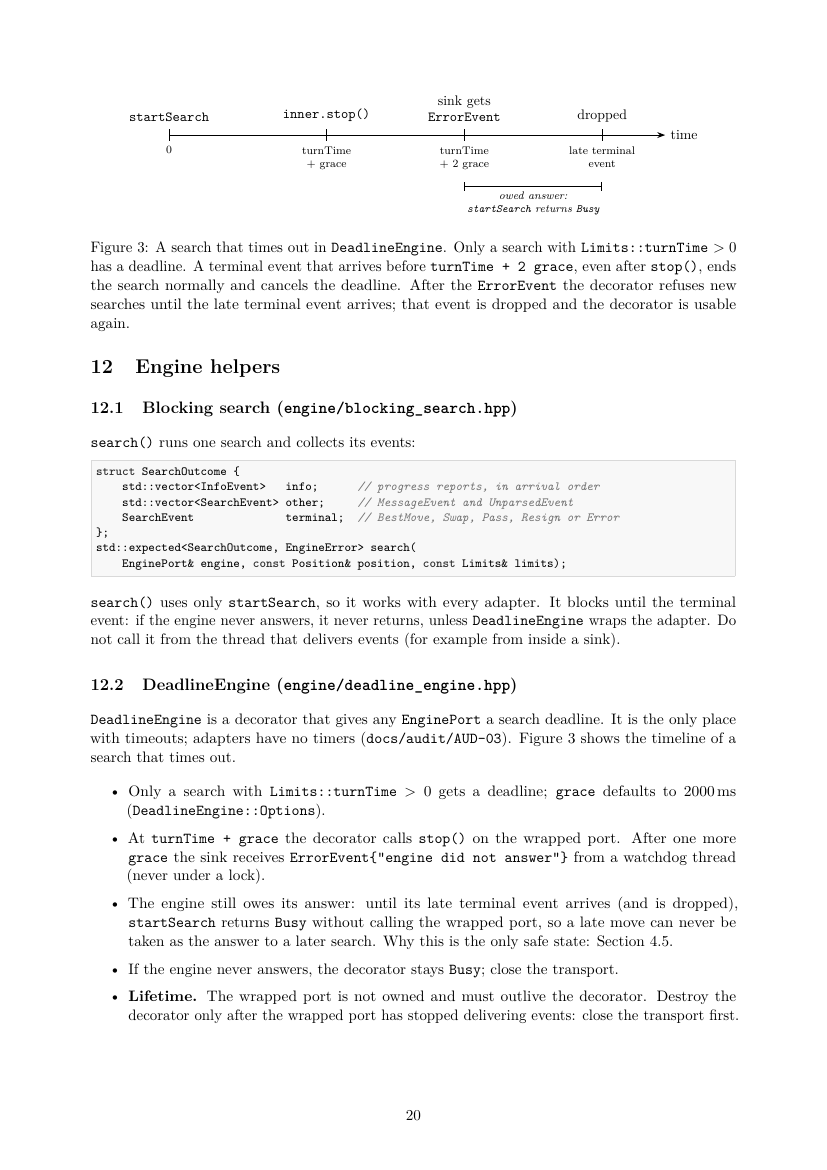
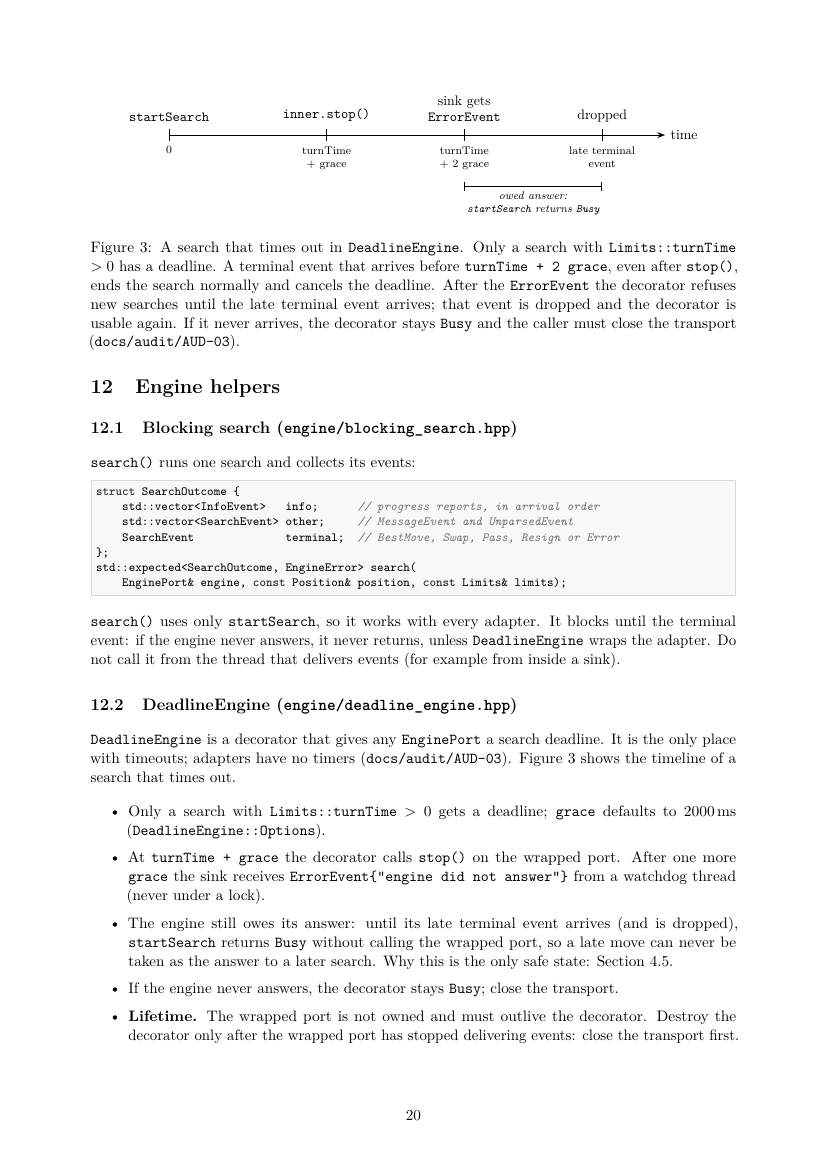
DOC-03: group engine and process as one layer in the module figure
Figure 1 coloured process like parse/transport, against the todo's engine/process layer;
both now share the helper shade and a labelled dashed box, so the layer reads without
colour. The "links nothing" note sat on the adapters arrow and is dropped (the caption
says it). The deadline caption now names the never-answering case (AUD-03).

Changed region(s): [[0.0907, 0.1846, 0.9069, 0.8923]]

diff --git a/docs/guide/developer-guide.tex b/docs/guide/developer-guide.tex
@@ -296,13 +296,13 @@ Figure~\ref{fig:modules} shows which links which.
 \begin{figure}[tbp]
 \centering
 \begin{tikzpicture}[pg figure]
-  % Row 1: the adapters (grouped) and the process transport.
+  % Row 1: the adapters (grouped) and the process transport (a helper).
   \node[pg mod=layeradapter] (gomocup) at (0,0)   {gomocup};
   \node[pg mod=layeradapter] (gtp)     at (2.8,0) {gtp};
   \node[pg mod=layeradapter] (kata)    at (5.6,0) {katagomo};
   \node[pg group, fit=(gomocup)(kata), label={[pg note]above:adapters}] (adapters) {};
-  \node[pg mod=layerio]      (process) at (10.2,0) {process};
-  \node[pg note, above=0.1cm of process] {built only if \code{UNIX}};
+  \node[pg mod=layerhelper]  (process) at (10.2,0) {process};
+  \node[pg note, right=0.35cm of process] {built only\\if \code{UNIX}};
   % Row 2: parse, transport and the engine helpers.
   \node[pg mod=layerio]      (parse)     at (1.4,-2.2)  {parse};
   \node[pg mod=layerio]      (transport) at (5.6,-2.2)  {transport};
@@ -310,6 +310,8 @@ Figure~\ref{fig:modules} shows which links which.
   % Row 3: the core and the system thread library.
   \node[pg mod=layercore]    (core)    at (3.5,-4.4) {core};
   \node[pg ext]              (threads) at (7.9,-4.4) {Threads (system)};
+  \node[pg group, fit=(process)(engine), label={[pg note]above:engine and process helpers}]
+    (helpers) {};
 
   \draw[pg arrow] (adapters.south -| parse)     -- (parse);
   \draw[pg arrow] (adapters.south -| transport) -- (transport);
@@ -319,13 +321,13 @@ Figure~\ref{fig:modules} shows which links which.
   \draw[pg arrow] (transport) -- (threads);
   \draw[pg arrow] (engine) -- (threads);
   \draw[pg arrow] (engine.south) -- ++(0,-2.9) -| (core.south);
-  \node[pg note, left=0.15cm of core] {links\\nothing};
 \end{tikzpicture}
 \caption{Module dependencies: an arrow points from a target to a target it links
   (\code{target\_link\_libraries} in the root \file{CMakeLists.txt}). The arrows leaving the
-  dashed box hold for each of the three adapters. The core links nothing, and the transport does
-  not link the core. The box shade repeats the layer that the module name already gives: core,
-  adapters, parse and transport, engine helpers.}
+  dashed adapters box hold for each of the three adapters. The core links nothing, and the
+  transport does not link the core. The dashed boxes group the adapters and the engine and process
+  helpers; the box shade repeats the layer (core, adapters, parse and transport, helpers) and
+  carries nothing else.}
 \label{fig:modules}
 \end{figure}
 
@@ -379,7 +381,7 @@ running down.
 \begin{tikzpicture}[pg figure]
   \node[pg ext]                 (app) at (0,0)    {Application};
   \node[pg mod=layeradapter]    (ad)  at (4.5,0)  {GomocupEngine};
-  \node[pg mod=layerio]         (tr)  at (9.0,0)  {ProcessTransport};
+  \node[pg mod=layerhelper]     (tr)  at (9.0,0)  {ProcessTransport};
   \node[pg ext]                 (en)  at (13.5,0) {engine program};
   \foreach \n in {app,ad,tr,en} \draw[pg lifeline] (\n.south) -- ++(0,-6.6);
 
@@ -1163,7 +1165,9 @@ Figure~\ref{fig:deadline} shows the timeline of a search that times out.
   \code{Limits::turnTime} $> 0$ has a deadline. A terminal event that arrives before
   \code{turnTime + 2 grace}, even after \code{stop()}, ends the search normally and cancels the
   deadline. After the \code{ErrorEvent} the decorator refuses new searches until the late
-  terminal event arrives; that event is dropped and the decorator is usable again.}
+  terminal event arrives; that event is dropped and the decorator is usable again. If it never
+  arrives, the decorator stays \code{Busy} and the caller must close the transport
+  (\file{docs/audit/AUD-03}).}
 \label{fig:deadline}
 \end{figure}
 

diff --git a/docs/todo/DOC-03-developer-guide-figures.md b/docs/todo/DOC-03-developer-guide-figures.md
@@ -60,7 +60,10 @@ Acceptance in `docs/features.json` (`"todo": "DOC-03"`).
   transport (one arrow per target from the dashed adapter box, said in the caption); process ->
   transport; core links nothing. Fixed: engine -> Threads was missing (only transport had a
   "links Threads only" note); Threads is now one dotted external node with both arrows.
-  `process` carries the note "built only if UNIX" (`if(UNIX)`).
+  `process` carries the note "built only if UNIX" (`if(UNIX)`). Layers as in Scope: engine and
+  process share the helper shade and a labelled dashed group box (also ProcessTransport in
+  figure 2); "links nothing" note dropped (it read as a label on the adapters arrow; the
+  caption says it).
 - Figure 2 (`fig:search-flow`) against `GomocupEngine::startSearch/onLine`,
   `Transport::writeLine`, `TransportListener::onLine`, `EventSink::onEvent`,
   `parseGomocupLine`: startSearch(pos, limits, sink) -> writeLine once per line (START n,
@@ -76,15 +79,16 @@ Acceptance in `docs/features.json` (`"todo": "DOC-03"`).
   `startSearch` returns Busy while detached (39); the late terminal clears it and is dropped
   (70-72). Fixed: third tick said "+grace", now "turnTime + 2 grace"; added the end tick "late
   terminal event / dropped". Caption covers the paths not drawn: no deadline without turnTime,
-  and a terminal event before the error (even after stop) ends the search normally.
+  a terminal event before the error (even after stop) ends the search normally, and a late
+  terminal that never arrives leaves the decorator Busy until the transport is closed (AUD-03).
 - Floats: three `figure[tbp]`, `\centering`, caption below the picture, `\caption` then
   `\label{fig:modules|search-flow|deadline}`; each referenced once by `Figure~\ref` in the
   introducing sentence ("The diagram follows" and "The timeline ...:" reworded).
 - Style: one preamble block (`\colorlet` layer shades + `\tikzset` `pg *` styles); one arrow tip
   (Stealth 2 mm, 0.8 pt); fonts: `\small` boxes, `\scriptsize` labels and notes (smallest).
   Greyscale read: `docs/reports/DOC-03/guide-gray-p{7,8,20}.png` (pdftoppm -gray). Shades are
-  close in grey, but every box names its module and the caption says the shade only repeats the
-  layer; external boxes differ by dotted border, adapters by the labelled dashed group.
+  close in grey, so the layer is also given without colour: module names, labelled dashed boxes
+  for adapters and for engine/process helpers, dotted borders for what is outside PyGomo.
 - No package added (tikz libraries already loaded: arrows.meta, positioning, fit, calc).
 - Build: `latexmk` rc 0, log has no `undefined` and no `Overfull`; five `\part`, "never run
   against a real engine" once. New source lines within 100 columns (lines 409-410 over 100 are

diff --git a/docs/handoff.md b/docs/handoff.md
@@ -22,7 +22,6 @@ Style normalization (planning code-style-normalization) is finished; the owner m
 KataGomo source is outside the repo (shallow clone of `https://github.com/hzyhhzy/KataGomo`, branch `Gom2026`, commit `9a0e65c`); re-clone into the scratchpad when needed. Rapfi: `/run/media/ngmint/Data/Programming/Programming/C++/Project/Lab/Rapfi_V2/rapfi/Rapfi` (binary `build/pbrain-rapfi`).
 
 ## Uncertain
-- Guide figure layer shades are close in greyscale (docs/reports/DOC-03); meaning rests on module names and borders, not shade.
 - Guide pre-existing source lines over 100 columns (about 18) were left alone (no restyle outside changed text).
 - check-doc-comments.sh is a heuristic: it checks types, aliases, free functions and public methods, not data members or enumerators (those are reviewed by hand). Overrides need their own `///` line each; accepting one group comment for them in the script would loosen the rule, so it needs an owner decision.
 - GtpEngine::stop() is a no-op by protocol: docs/audit/AUD-02 (KataGomo reads stdin on one thread; genmove cannot be interrupted). Limits persist in the engine between searches.
